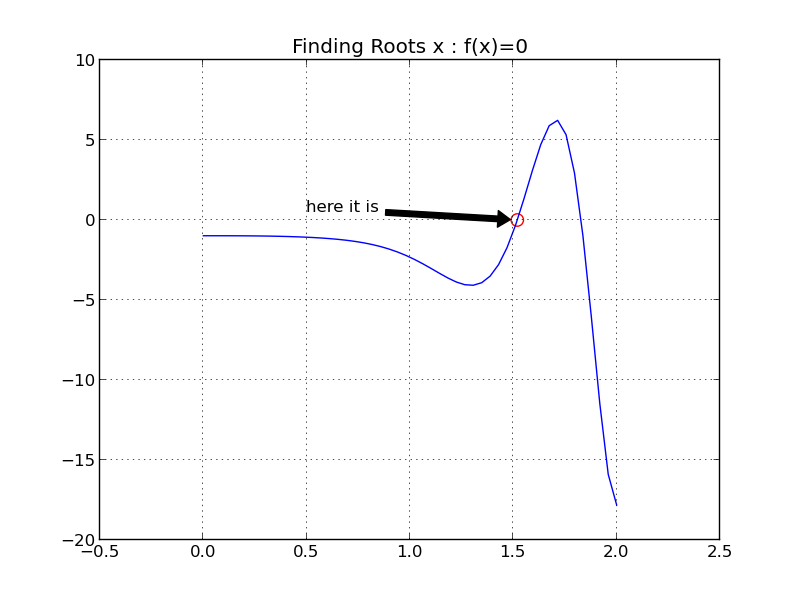
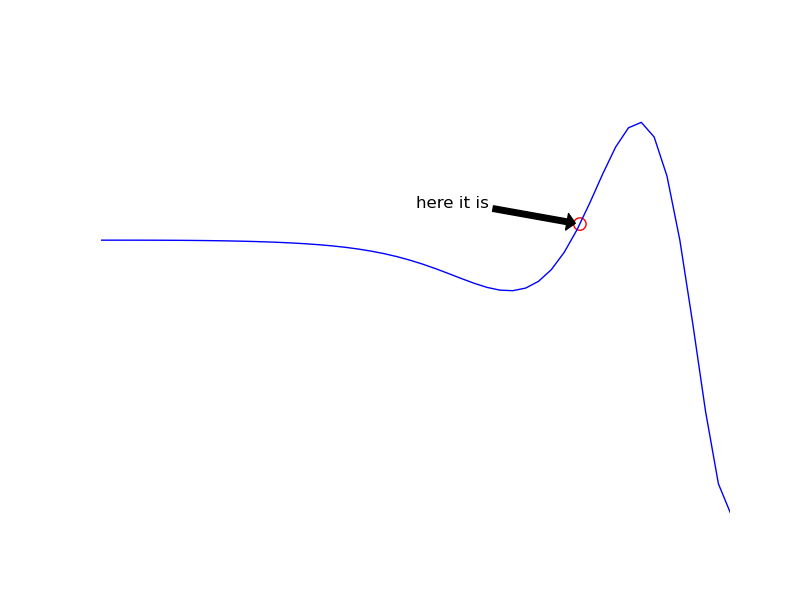
roots update

diff --git a/roots/example.py b/roots/example.py
@@ -1,17 +1,29 @@
 """
 Root Finding Problem:
-Finding roots of specific function. 
+Finding roots of a function. 
 """
 
 from roots import bisection, newton
 from math import sin, cos, exp
+from matplotlib import pyplot
+from numpy import linspace
 
 #test function
 def f(x):
     return pow(2.015, -pow(x,3)) - pow(x,4)*sin(pow(x,3)) - 1.984
 
-#methods performed on function
-print bisection(f,[1.5,1.6],.0001)
-print newton(f,1.6,.0001)
+#results
+bisect = bisection(f,[1.5,1.6],.0001)
+newt = newton(f,1.6,.0001)
+print 'bisection:', bisect
+print 'newton', newt
 
-
+#plots
+x = linspace(0,2)
+y = map(f, x)
+pyplot.scatter(bisect, 0, s=80, facecolors='none', edgecolors='r')
+pyplot.annotate('here it is', xy=(bisect,0), xytext=(1,1), arrowprops=dict(facecolor='black', shrink=0.05))
+pyplot.xlim(0,2)
+pyplot.plot(x,y)
+pyplot.axis('off')
+pyplot.show() 
